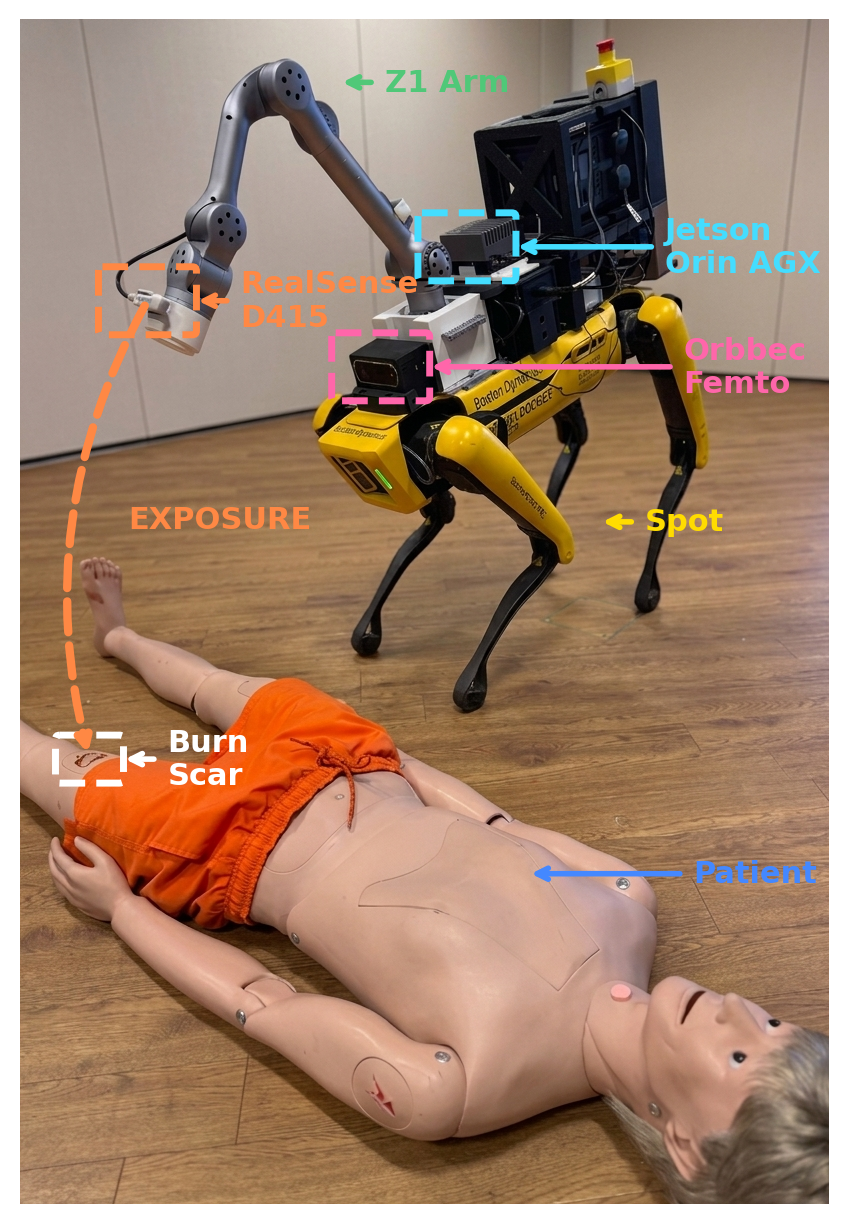
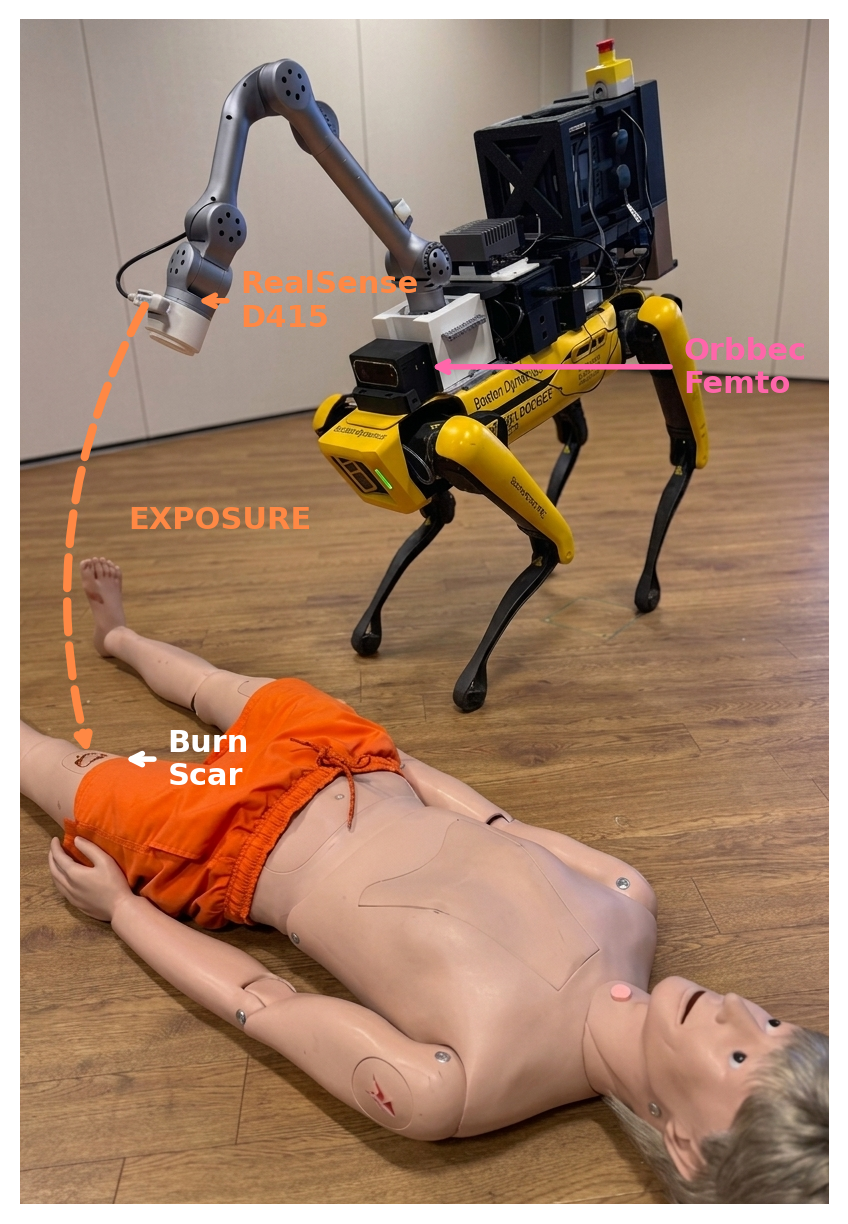
fix: restore dashed boxes for RealSense, Orbbec, Burn/Scar

diff --git a/scripts/annotate_cover.py b/scripts/annotate_cover.py
@@ -82,8 +82,8 @@ def generate_annotated():
         color = c["color"]
         cx, cy = c["x"], c["y"]
 
-        # Skip dashed box for remaining labels (just label + arrow)
-        skip_box = True
+        # Show dashed box for all remaining labels
+        skip_box = False
         bw, bh = 90, 60
 
         if "Scar" in c["label"]:
